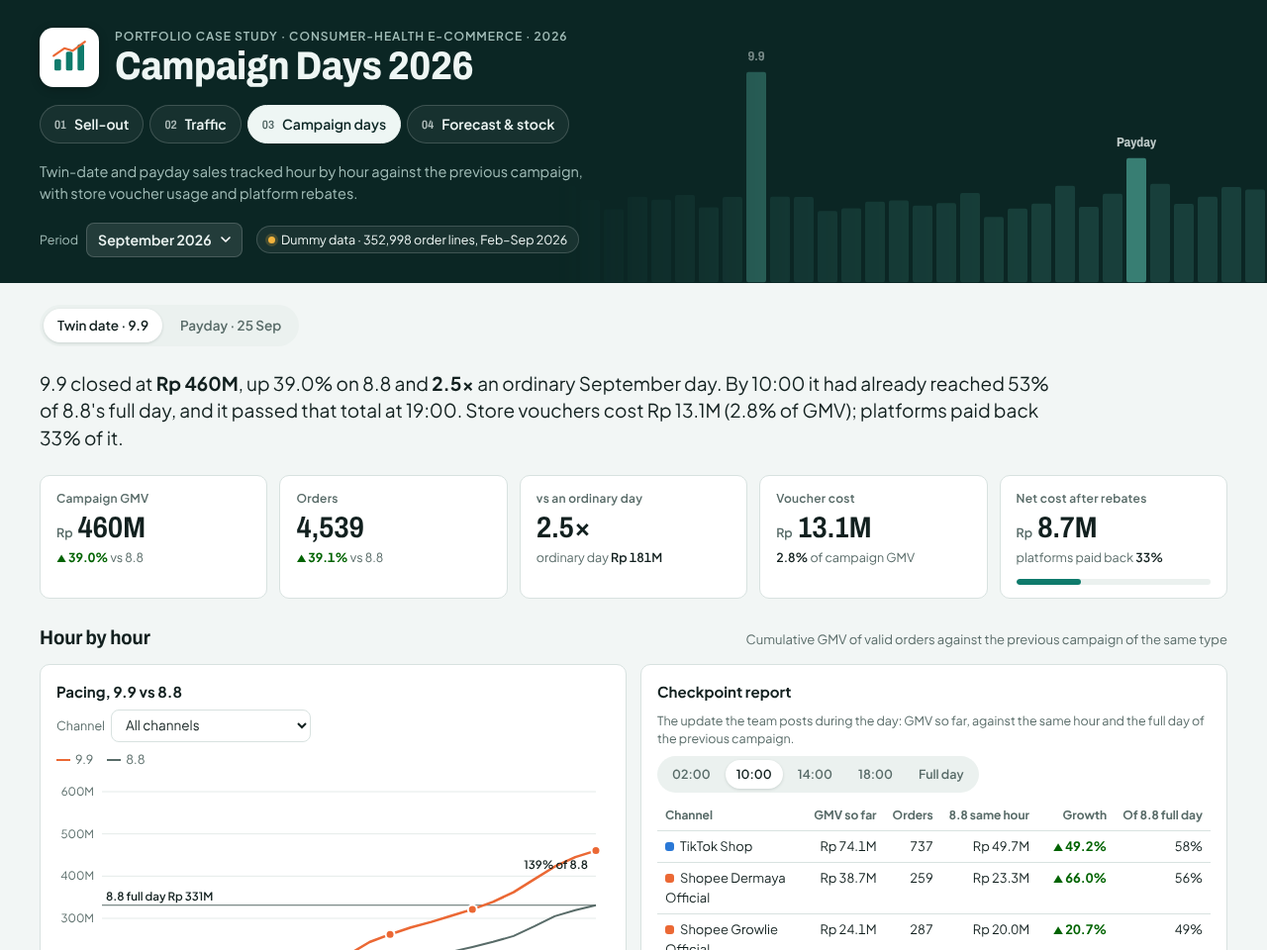
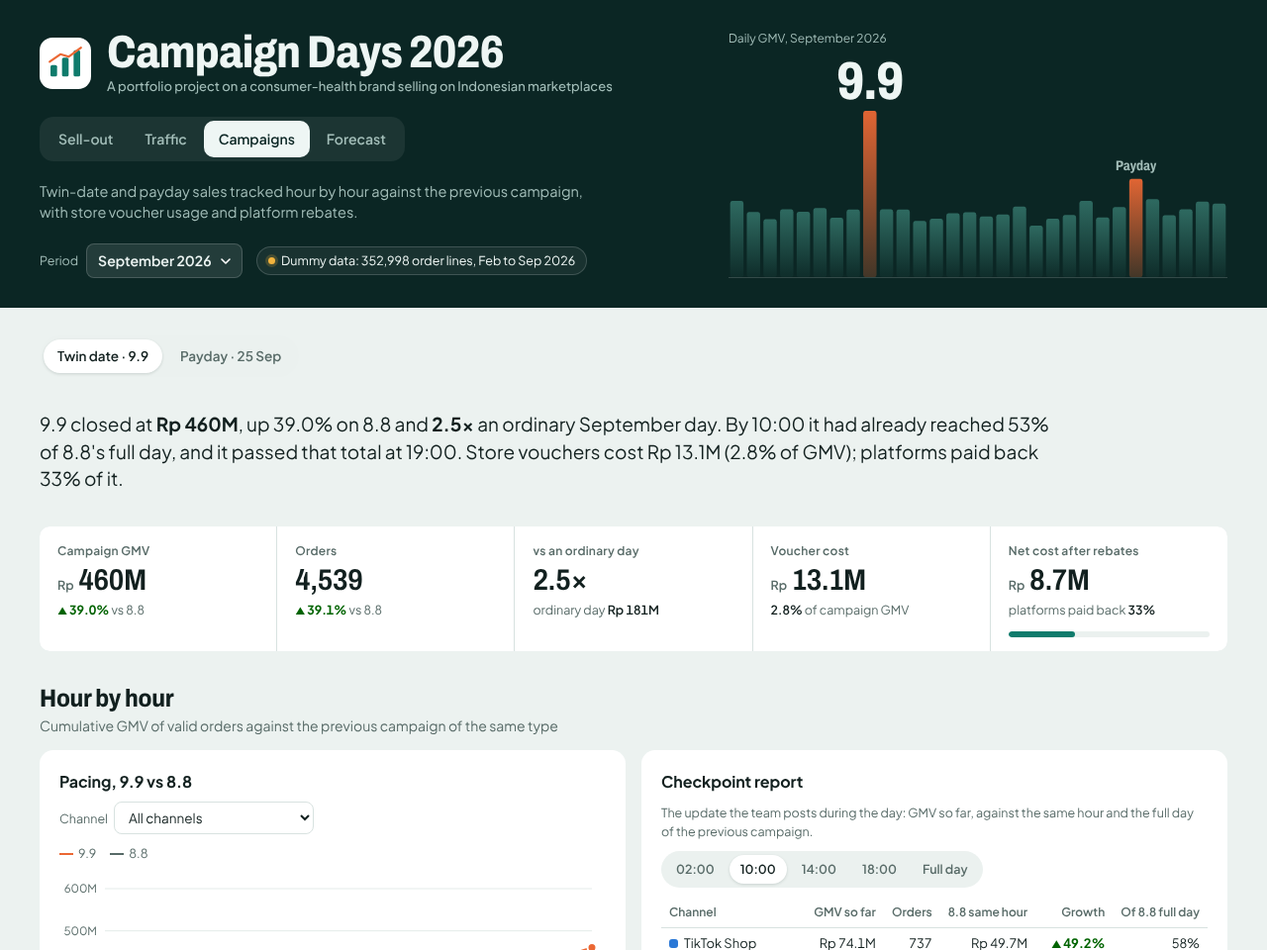
Polish the dashboard's look
- Hero: the month's daily GMV skyline gets its own column, campaign days in
  orange with the twin date set in large type; shorter tab names
- KPIs sit in one hairline-divided strip instead of separate boxes
- Analyst notes, cards, tables and warehouse buttons lose their outlines
- Charts highlight the selected month with a band instead of fading the rest
- Bigger section headings, sentence-case labels, more breathing room

Claude-Session: https://claude.ai/code/session_0185xCfndQ3f2hcNnKjJxaH8

diff --git a/style.css b/style.css
@@ -1,7 +1,7 @@
 /* Layout: dark pine hero band (logo, page tabs, period picker, faint daily-GMV skyline of the chosen month),
    then one 1200px column per page: 01 Sell-out, 02 Traffic, 03 Campaign days, 04 Forecast & stock. */
 :root {
-  --bg: #f2f6f5;
+  --bg: #ecf2f0;
   --panel: #ffffff;
   --fg: #12201f;
   --muted: #586b68;
@@ -70,15 +70,19 @@ body[data-page="forecast"] [data-for="forecast"] { display: block; }
 
 /* Hero */
 .hero { background: var(--hero-bg); color: var(--hero-fg); position: relative; overflow: hidden; }
-.hero-art { position: absolute; inset: 0 0 0 auto; width: min(58%, 720px); pointer-events: none;
-  -webkit-mask-image: linear-gradient(90deg, transparent 0%, rgba(0,0,0,.6) 28%, #000 70%); mask-image: linear-gradient(90deg, transparent 0%, rgba(0,0,0,.6) 28%, #000 70%); }
-.hero-art svg { position: absolute; inset: auto 0 0 0; width: 100%; height: 88%; display: block; }
-.hero-art text { font-family: var(--font-display); font-stretch: 85%; font-weight: 700; fill: var(--hero-fg); }
-.hero .inner { position: relative; display: grid; gap: 18px; padding-block: 28px 26px; }
+/* The skyline: daily GMV of the chosen month, drawn as the hero's right column */
+.hero-art { grid-column: 2; grid-row: 1 / span 4; position: relative; align-self: stretch; min-height: 220px; pointer-events: none; border-bottom: 1px solid var(--hero-line); }
+.hero-art svg { position: absolute; inset: auto 0 0 0; width: 100%; height: 70%; display: block; }
+.hero-art .peak { position: absolute; transform: translateX(-50%); font-family: var(--font-display); font-stretch: 80%; font-weight: 800; line-height: .9; color: var(--hero-fg); letter-spacing: -.02em; white-space: nowrap; }
+.hero-art .peak.big { font-size: clamp(34px, 4.2vw, 58px); }
+.hero-art .peak.small { font-size: 14px; font-weight: 700; color: var(--hero-muted); letter-spacing: 0; }
+.hero-art .art-cap { position: absolute; left: 0; top: 0; font-size: 12px; color: var(--hero-muted); }
+.hero .inner { position: relative; display: grid; grid-template-columns: minmax(0, 1fr) minmax(300px, 42%); gap: 20px 40px; padding-block: 30px 30px; }
+.hero .inner > :not(.hero-art) { grid-column: 1; }
 .brand { display: flex; align-items: center; gap: 16px; }
-.logo { width: 60px; height: 60px; flex: none; background: #fff; border-radius: 14px; display: grid; place-items: center; box-shadow: 0 2px 10px rgba(0,0,0,.25); }
-.eyebrow { font-size: 12px; letter-spacing: .08em; text-transform: uppercase; color: var(--hero-muted); font-weight: 600; }
-.hero h1 { font-family: var(--font-display); font-stretch: 88%; font-weight: 750; font-size: clamp(26px, 4.2vw, 40px); line-height: 1.05; letter-spacing: -.01em; }
+.logo { width: 52px; height: 52px; flex: none; background: #fff; border-radius: 13px; display: grid; place-items: center; }
+.eyebrow { font-size: 13px; color: var(--hero-muted); font-weight: 500; margin-top: 2px; }
+.hero h1 { font-family: var(--font-display); font-stretch: 84%; font-weight: 780; font-size: clamp(28px, 4.6vw, 46px); line-height: 1; letter-spacing: -.015em; }
 .hero-sub { color: var(--hero-muted); max-width: 54ch; font-size: 14.5px; margin: 0; }
 .hero-bar { display: flex; flex-wrap: wrap; align-items: center; gap: 10px 14px; }
 .chip { display: inline-flex; align-items: center; gap: 6px; border: 1px solid var(--hero-line); border-radius: 999px; padding: 4px 11px; font-size: 12.5px; color: var(--hero-fg); background: rgba(255,255,255,.06); }
@@ -88,25 +92,24 @@ body[data-page="forecast"] [data-for="forecast"] { display: block; }
   border: 1px solid var(--hero-line); color: var(--hero-fg); border-radius: 8px; padding: 6px 30px 6px 11px; font-weight: 600; font-size: 14px; cursor: pointer; }
 .month-pick select option { color: #12201f; background: #fff; }
 
-.tabs { display: flex; flex-wrap: wrap; gap: 6px; }
-.tab { display: inline-flex; align-items: center; gap: 8px; padding: 8px 14px; border-radius: 999px; border: 1px solid var(--hero-line);
-  color: var(--hero-fg); text-decoration: none; font-weight: 600; font-size: 14px; background: rgba(255,255,255,.05); }
-.tab:hover { background: rgba(255,255,255,.12); }
-.tab[aria-selected="true"] { background: var(--hero-fg); color: var(--hero-bg); border-color: var(--hero-fg); }
-.tab .tab-no { font-family: var(--font-display); font-stretch: 85%; font-size: 12px; opacity: .7; }
+.tabs { display: inline-flex; flex-wrap: wrap; gap: 2px; padding: 4px; border-radius: 14px; background: rgba(255,255,255,.07); justify-self: start; max-width: 100%; }
+.tab { display: inline-flex; align-items: center; padding: 8px 15px; border-radius: 10px; border: 0;
+  color: var(--hero-muted); text-decoration: none; font-weight: 600; font-size: 14px; background: transparent; }
+.tab:hover { color: var(--hero-fg); background: rgba(255,255,255,.06); }
+.tab[aria-selected="true"] { background: var(--hero-fg); color: var(--hero-bg); }
 
 /* Main column */
-main .inner { display: grid; gap: 24px; padding-block: 22px 40px; }
+main .inner { display: grid; gap: 34px; padding-block: 28px 48px; }
 .lede { font-size: clamp(16px, 2vw, 19px); line-height: 1.45; max-width: 74ch; margin: 0; }
 .lede b { font-weight: 700; }
-.section-head { display: flex; flex-wrap: wrap; align-items: baseline; justify-content: space-between; gap: 6px 16px; }
-.section-head h2 { font-family: var(--font-display); font-stretch: 92%; font-weight: 700; font-size: 20px; letter-spacing: -.005em; }
-.section-head p { margin: 0; color: var(--muted); font-size: 13px; }
-.section { display: grid; gap: 12px; min-width: 0; }
+.section-head { display: grid; gap: 3px; }
+.section-head h2 { font-family: var(--font-display); font-stretch: 88%; font-weight: 750; font-size: 25px; letter-spacing: -.01em; line-height: 1.15; }
+.section-head p { margin: 0; color: var(--muted); font-size: 14px; }
+.section { display: grid; gap: 14px; min-width: 0; }
 
 /* KPI tiles */
-.kpis { display: grid; grid-template-columns: repeat(auto-fit, minmax(min(100%, 150px), 1fr)); gap: 12px; }
-.kpi { background: var(--panel); border: 1px solid var(--line); border-radius: var(--r); padding: 14px 16px 13px; display: grid; gap: 4px; align-content: start; min-width: 0; }
+.kpis { display: grid; grid-template-columns: repeat(auto-fit, minmax(min(100%, 160px), 1fr)); gap: 1px; background: var(--line); border-radius: var(--r); overflow: hidden; }
+.kpi { background: var(--panel); padding: 16px 18px 14px; display: grid; gap: 4px; align-content: start; min-width: 0; }
 .kpi-label { font-size: 12px; color: var(--muted); font-weight: 600; letter-spacing: .02em; }
 .kpi-value { font-family: var(--font-display); font-stretch: 85%; font-weight: 650; font-size: clamp(24px, 2.6vw, 30px); line-height: 1.1; letter-spacing: -.01em; white-space: nowrap; }
 .kpi-value .cur { font-family: var(--font-body); font-size: 12.5px; font-weight: 600; color: var(--muted); margin-right: 5px; letter-spacing: 0; }
@@ -130,16 +133,16 @@ main .inner { display: grid; gap: 24px; padding-block: 22px 40px; }
 .delta.flat { color: var(--muted); }
 
 /* Analyst notes */
-.notes { display: grid; grid-template-columns: repeat(auto-fit, minmax(min(100%, 280px), 1fr)); gap: 12px; }
-.note-card { margin: 0; background: var(--soft); border-radius: var(--r); padding: 14px 16px; display: grid; gap: 6px; align-content: start; min-width: 0; }
-.note-card .tag { font-size: 11.5px; letter-spacing: .07em; text-transform: uppercase; font-weight: 700; color: var(--muted); }
-.note-card .big { font-family: var(--font-display); font-stretch: 85%; font-weight: 700; font-size: 26px; line-height: 1.1; }
-.note-card p { margin: 0; font-size: 13.5px; line-height: 1.5; }
+.notes { display: grid; grid-template-columns: repeat(auto-fit, minmax(min(100%, 280px), 1fr)); gap: 18px 28px; }
+.note-card { margin: 0; padding: 2px 0 0 16px; border-left: 2px solid var(--camp); display: grid; gap: 6px; align-content: start; min-width: 0; }
+.note-card .big { font-family: var(--font-display); font-stretch: 82%; font-weight: 750; font-size: 30px; line-height: 1.05; letter-spacing: -.01em; }
+.note-card p { margin: 0; font-size: 14px; line-height: 1.55; color: var(--muted); max-width: 46ch; }
+.note-card p b { color: var(--fg); }
 
 /* Cards & charts */
-.grid2 { display: grid; grid-template-columns: repeat(auto-fit, minmax(min(100%, 440px), 1fr)); gap: 14px; }
-.card { background: var(--panel); border: 1px solid var(--line); border-radius: var(--r); padding: 16px 16px 12px; min-width: 0; display: grid; gap: 8px; align-content: start; }
-.card h3 { font-size: 15px; font-weight: 700; }
+.grid2 { display: grid; grid-template-columns: repeat(auto-fit, minmax(min(100%, 440px), 1fr)); gap: 16px; }
+.card { background: var(--panel); border-radius: 14px; padding: 20px 20px 16px; min-width: 0; display: grid; gap: 10px; align-content: start; }
+.card h3 { font-size: 16px; font-weight: 700; letter-spacing: -.005em; }
 .card .note { margin: 0; color: var(--muted); font-size: 12.5px; }
 .legend { display: flex; flex-wrap: wrap; gap: 4px 14px; font-size: 12.5px; color: var(--muted); }
 .chart { position: relative; width: 100%; }
@@ -206,11 +209,11 @@ main .inner { display: grid; gap: 24px; padding-block: 22px 40px; }
 .field input { width: 15em; }
 .toolbar .count { margin-left: auto; font-size: 12.5px; color: var(--muted); }
 
-.table-box { overflow: auto; max-height: 620px; border: 1px solid var(--line); border-radius: var(--r); background: var(--panel); }
+.table-box { overflow: auto; max-height: 620px; border-radius: 14px; background: var(--panel); }
 .table-box.flat { border: 0; max-height: none; border-radius: 0; }
 table { border-collapse: separate; border-spacing: 0; width: 100%; font-size: 13.5px; }
-th { position: sticky; top: 0; z-index: 2; background: var(--panel); text-align: left; font-size: 12px; font-weight: 700; color: var(--muted); padding: 10px 12px; border-bottom: 1px solid var(--line); white-space: nowrap; }
-td { padding: 9px 12px; border-bottom: 1px solid var(--line); vertical-align: top; }
+th { position: sticky; top: 0; z-index: 2; background: var(--panel); text-align: left; font-size: 12px; font-weight: 600; color: var(--muted); padding: 12px 14px 10px; border-bottom: 1px solid var(--line); white-space: nowrap; }
+td { padding: 10px 14px; border-bottom: 1px solid var(--line); vertical-align: top; }
 tbody tr:last-child td { border-bottom: 0; }
 td.r, th.r { text-align: right; font-variant-numeric: tabular-nums; white-space: nowrap; }
 td.c, th.c { text-align: center; }
@@ -265,9 +268,9 @@ td.heat.sel { box-shadow: inset 0 0 0 2px var(--fg); }
 
 /* Warehouse plan strip */
 .wh-strip { display: grid; grid-template-columns: repeat(auto-fit, minmax(min(100%, 150px), 1fr)); gap: 10px; }
-.wh-btn { text-align: left; background: var(--panel); border: 1px solid var(--line); border-radius: var(--r); padding: 11px 14px; cursor: pointer; display: grid; gap: 2px; }
-.wh-btn:hover { border-color: var(--accent); }
-.wh-btn[aria-selected="true"] { border-color: var(--accent); box-shadow: inset 0 0 0 1px var(--accent); background: color-mix(in srgb, var(--accent) 7%, var(--panel)); }
+.wh-btn { text-align: left; background: var(--panel); border: 0; border-radius: 12px; padding: 13px 16px; cursor: pointer; display: grid; gap: 2px; }
+.wh-btn:hover { box-shadow: inset 0 0 0 1px var(--axis); }
+.wh-btn[aria-selected="true"] { box-shadow: inset 0 0 0 2px var(--accent); }
 .wh-btn .wh-name { font-size: 12.5px; color: var(--muted); font-weight: 600; }
 .wh-btn .wh-val { font-family: var(--font-display); font-stretch: 85%; font-weight: 650; font-size: 22px; line-height: 1.15; }
 .wh-btn .wh-val small { font-family: var(--font-body); font-size: 12px; color: var(--muted); font-weight: 600; margin-left: 3px; }
@@ -275,7 +278,7 @@ td.heat.sel { box-shadow: inset 0 0 0 2px var(--fg); }
 
 /* Pipeline flow */
 .flow { list-style: none; margin: 0; padding: 0; display: grid; grid-template-columns: repeat(auto-fit, minmax(min(100%, 170px), 1fr)); gap: 10px; counter-reset: step; }
-.flow li { background: var(--panel); border: 1px solid var(--line); border-radius: var(--r); padding: 12px 14px; display: grid; gap: 4px; align-content: start; counter-increment: step; position: relative; min-width: 0; }
+.flow li { background: var(--panel); border-radius: 12px; padding: 14px 16px; display: grid; gap: 4px; align-content: start; counter-increment: step; position: relative; min-width: 0; }
 .flow li::before { content: counter(step); font-family: var(--font-display); font-stretch: 85%; font-weight: 700; font-size: 12px; color: var(--accent);
   width: 22px; height: 22px; border-radius: 50%; border: 1.5px solid var(--accent); display: grid; place-items: center; }
 .flow .f-title { font-weight: 700; font-size: 13.5px; }
@@ -297,13 +300,17 @@ footer p { margin: 0; max-width: 100ch; }
 footer b { color: var(--fg); }
 .error { background: var(--panel); border: 1px solid var(--line); border-radius: var(--r); padding: 18px; }
 
+@media (max-width: 860px) {
+  .hero .inner { grid-template-columns: minmax(0, 1fr); }
+  .hero-art { grid-column: 1; grid-row: auto; min-height: 190px; }
+  .hero-art svg { height: 58%; }
+  .tab { padding: 7px 12px; }
+}
 @media (max-width: 720px) {
   .opt { display: none; }
   .only-narrow { display: inline; }
   .hide-narrow { display: none; }
-  .hero-art span { display: none; }
   .kpis > .kpi:last-child:nth-child(odd) { grid-column: 1 / -1; }
-  .hero-art { width: 100%; opacity: .55; -webkit-mask-image: linear-gradient(180deg, rgba(0,0,0,.2), #000); mask-image: linear-gradient(180deg, rgba(0,0,0,.2), #000); }
   .toolbar .field { flex: 1 1 100%; min-width: 0; }
   .toolbar .field select, .toolbar .field input { flex: 1 1 auto; width: 100%; min-width: 0; }
   .toolbar .count { margin-left: 0; }

diff --git a/js/app.js b/js/app.js
@@ -19,33 +19,44 @@
   U.onMonth((m) => { sel.value = m; drawHero(); });
 
   const lines = D.allMonths.reduce((a, k) => a + D.sell[k].stat.raw_lines, 0);
-  $("#data-chip").textContent = "Dummy data · " + U.num(lines) + " order lines, Feb–Sep 2026";
+  $("#data-chip").textContent = "Dummy data: " + U.num(lines) + " order lines, Feb to Sep 2026";
   const gen = new Date(D.generated);
   $("#stamp").textContent = "Data generated " + (isNaN(gen) ? D.generated : gen.toLocaleDateString("en-US", { timeZone: "Asia/Jakarta", day: "numeric", month: "long", year: "numeric" })) +
     " from " + D.allMonths.length + " monthly order exports, a daily traffic report, voucher setups and platform rebates. February–April only seed the forecast history.";
 
-  // hero skyline: daily GMV of the chosen month, campaign days brighter
+  // hero skyline: daily GMV of the chosen month; campaign days burn orange and carry their date in big type
   function drawHero() {
     const box = $("#hero-art");
-    const W = 720, H = 220;
+    const W = 760, H = 200;
     const m = U.state.month, vals = window.SELLOUT_PAGE.dayTotal(m), n = vals.length;
     const camp = {};
-    window.SELLOUT_PAGE.campaignDays(m).forEach((c) => (camp[c.day] = c));
+    window.SELLOUT_PAGE.campaignDays(m).forEach((c) => { if (c.kind !== "holiday") camp[c.day] = c; });
     const max = Math.max(...vals), band = W / n;
     const svg = U.svgEl("svg", { viewBox: `0 0 ${W} ${H}`, preserveAspectRatio: "none" });
+    const defs = U.svgEl("defs");
+    const grad = (id, color, top, bottom) => {
+      const g = U.svgEl("linearGradient", { id, x1: 0, y1: 0, x2: 0, y2: 1 });
+      g.appendChild(U.svgEl("stop", { offset: "0", style: `stop-color:${color};stop-opacity:${top}` }));
+      g.appendChild(U.svgEl("stop", { offset: "1", style: `stop-color:${color};stop-opacity:${bottom}` }));
+      defs.appendChild(g);
+    };
+    grad("hero-day", "var(--hero-art)", 0.42, 0.04);
+    grad("hero-camp", "var(--camp)", 0.95, 0.25);
+    svg.appendChild(defs);
     vals.forEach((v, i) => {
-      const h = (v / max) * (H - 34), c = camp[i + 1];
-      svg.appendChild(U.svgEl("rect", { x: i * band + 2, y: H - h, width: band - 4, height: h, rx: 2, fill: "var(--hero-art)", "fill-opacity": c && c.kind !== "holiday" ? 0.55 : 0.16 }));
+      const h = (v / max) * (H - 8);
+      svg.appendChild(U.svgEl("rect", { x: i * band + 2.5, y: H - h, width: band - 5, height: h, rx: 3, fill: camp[i + 1] ? "url(#hero-camp)" : "url(#hero-day)" }));
     });
     box.replaceChildren(svg);
+    const svgH = svg.getBoundingClientRect().height || box.clientHeight * 0.7;
     for (const d in camp) {
-      if (camp[d].kind === "holiday") continue;
-      const h = (vals[d - 1] / max) * (H - 34);
-      const t = U.el("span", null, camp[d].label);
-      Object.assign(t.style, { position: "absolute", left: `calc(${((d - 0.5) / n) * 100}% - 3em)`, width: "6em", textAlign: "center",
-        bottom: `calc(${(h / H) * 88}% + 6px)`, fontFamily: "var(--font-display)", fontWeight: "700", fontStretch: "85%", fontSize: "13px", color: "var(--hero-fg)", opacity: ".8" });
+      const h = (vals[d - 1] / max) * (H - 8);
+      const t = U.el("span", "peak " + (camp[d].kind === "twin" ? "big" : "small"), camp[d].label);
+      t.style.left = ((d - 0.5) / n) * 100 + "%";
+      t.style.bottom = (h / H) * svgH + 6 + "px";
       box.appendChild(t);
     }
+    box.appendChild(U.el("span", "art-cap", "Daily GMV, " + U.monthName(m)));
   }
 
   function show(name) {
@@ -80,6 +91,6 @@
     if (w === lastW) return;
     lastW = w;
     cancelAnimationFrame(raf);
-    raf = requestAnimationFrame(() => { const o = PAGES[document.body.dataset.page].obj(); if (o) o.redraw(); });
+    raf = requestAnimationFrame(() => { drawHero(); const o = PAGES[document.body.dataset.page].obj(); if (o) o.redraw(); });
   }).observe(document.body);
 })();

diff --git a/index.html b/index.html
@@ -18,22 +18,21 @@
 </head>
 <body data-page="sellout">
 <header class="hero">
-  <div class="hero-art" id="hero-art" aria-hidden="true"></div>
   <div class="inner gutter">
     <div class="brand">
       <div class="logo" aria-hidden="true">
         <svg viewBox="0 0 48 48" width="40" height="40"><rect x="6" y="26" width="8" height="14" rx="2" fill="#0f7b6c"/><rect x="20" y="17" width="8" height="23" rx="2" fill="#0f7b6c"/><rect x="34" y="8" width="8" height="32" rx="2" fill="#0f7b6c"/><path d="M5 22 L18 13 L28 16 L43 5" fill="none" stroke="#eb6834" stroke-width="2.6" stroke-linecap="round" stroke-linejoin="round"/></svg>
       </div>
       <div>
-        <div class="eyebrow">Portfolio case study · Consumer-health e-commerce · 2026</div>
         <h1 id="page-title">E-commerce Sell-out 2026</h1>
+        <div class="eyebrow">A portfolio project on a consumer-health brand selling on Indonesian marketplaces</div>
       </div>
     </div>
     <nav class="tabs" role="tablist" aria-label="Dashboard pages">
-      <a class="tab" role="tab" id="tab-sellout" href="#sellout" aria-controls="page-sellout" aria-selected="true"><span class="tab-no">01</span>Sell-out</a>
-      <a class="tab" role="tab" id="tab-traffic" href="#traffic" aria-controls="page-traffic" aria-selected="false"><span class="tab-no">02</span>Traffic</a>
-      <a class="tab" role="tab" id="tab-campaigns" href="#campaigns" aria-controls="page-campaigns" aria-selected="false"><span class="tab-no">03</span>Campaign days</a>
-      <a class="tab" role="tab" id="tab-forecast" href="#forecast" aria-controls="page-forecast" aria-selected="false"><span class="tab-no">04</span>Forecast &amp; stock</a>
+      <a class="tab" role="tab" id="tab-sellout" href="#sellout" aria-controls="page-sellout" aria-selected="true">Sell-out</a>
+      <a class="tab" role="tab" id="tab-traffic" href="#traffic" aria-controls="page-traffic" aria-selected="false">Traffic</a>
+      <a class="tab" role="tab" id="tab-campaigns" href="#campaigns" aria-controls="page-campaigns" aria-selected="false">Campaigns</a>
+      <a class="tab" role="tab" id="tab-forecast" href="#forecast" aria-controls="page-forecast" aria-selected="false">Forecast</a>
     </nav>
     <p class="hero-sub" data-for="sellout">Net sales from TikTok Shop, Shopee, Tokopedia, Lazada and Blibli order exports, by platform, store, brand and item.</p>
     <p class="hero-sub" data-for="traffic">Daily store traffic reports: visitors, product clicks, ads and conversion, read next to the orders they produced.</p>
@@ -45,6 +44,7 @@
       </label>
       <span class="chip"><span class="dot" aria-hidden="true"></span><span id="data-chip">Loading data…</span></span>
     </div>
+    <div class="hero-art" id="hero-art" aria-hidden="true"></div>
   </div>
 </header>
 

diff --git a/js/sellout.js b/js/sellout.js
@@ -84,7 +84,9 @@
     const tw = camp[0];
     const card = (tag, big, text) => {
       const f = el("figure", "note-card");
-      f.append(el("div", "tag", tag), el("div", "big", big), el("p", null, text));
+      const p = el("p");
+      p.append(el("b", null, tag + ". "), text);
+      f.append(el("div", "big", big), p);
       box.appendChild(f);
     };
     card("Twin date", fmt(tot[tw.day - 1] / avgNormal, 1) + "× an ordinary day",
@@ -100,7 +102,7 @@
       if (itemKind(code) !== "Single SKU") skuPack += k;
     }
     card("Bundles & multipacks", pct(skuPack / skuAll, 0) + " of SKU units",
-      "Physical units that leave the warehouse inside a pack. That is why stock is counted after bundles are split into SKUs, not from sellable items (see Forecast & stock).");
+      "Physical units that leave the warehouse inside a pack. That is why stock is counted after bundles are split into SKUs, not from sellable items (see the Forecast page).");
   }
 
   // ---------- charts ----------
@@ -127,7 +129,8 @@
     months.forEach((k, i) => {
       const cx = m.l + (i + 0.5) * band, x0 = cx - bw / 2, x1 = cx + bw / 2;
       const sel = k === U.state.month;
-      const g = svgEl("g", { opacity: sel ? 1 : 0.5 });
+      if (sel) svg.appendChild(svgEl("rect", { x: cx - band / 2 + 4, y: m.t - 18, width: band - 8, height: ih + 18 + 22, rx: 10, fill: "var(--soft)" }));
+      const g = svgEl("g");
       let acc = 0;
       const vals = D.platforms.map((p) => D.sell[k].plat[p][0]);
       vals.forEach((v, j) => {
@@ -152,13 +155,13 @@
     };
     hit.addEventListener("pointermove", (ev) => {
       const i = idxAt(ev), k = months[i];
-      groups.forEach((g, j) => g.g.setAttribute("opacity", j === i || g.sel ? 1 : 0.5));
+      groups.forEach((g, j) => g.g.setAttribute("opacity", j === i || g.sel ? 1 : 0.75));
       const s = svg.getBoundingClientRect().width / W;
       const rows = D.platforms.slice().reverse().map((p) => ({ label: p, value: rp(D.sell[k].plat[p][0]), color: PCOL[p] }));
       rows.push({ label: "Total", value: rp(totals[i]) });
       U.showTip(box, groups[i].cx * s, y(totals[i]) * s, U.monthName(k), rows, k === U.state.month ? null : "Click to select this month");
     });
-    hit.addEventListener("pointerleave", () => { groups.forEach((g) => g.g.setAttribute("opacity", g.sel ? 1 : 0.5)); U.hideTip(box); });
+    hit.addEventListener("pointerleave", () => { groups.forEach((g) => g.g.setAttribute("opacity", 1)); U.hideTip(box); });
     hit.addEventListener("click", (ev) => { const k = months[idxAt(ev)]; if (k !== U.state.month) { U.hideTip(box); U.setMonth(k); } });
   }
 

diff --git a/js/forecast.js b/js/forecast.js
@@ -86,8 +86,9 @@
     }
     const gs = ms.map((x, i) => {
       const cx = m.l + (i + 0.5) * band, sel = x.k === U.state.month;
-      const g = svgEl("g", { opacity: sel ? 1 : 0.5 });
-      g.appendChild(svgEl("path", { d: U.barPath(cx - bw / 2, cx + bw / 2, y(x.A), y(0)), fill: "var(--one)" }));
+      if (sel) svg.appendChild(svgEl("rect", { x: cx - band / 2 + 4, y: m.t - 20, width: band - 8, height: ih + 20 + 22, rx: 10, fill: "var(--soft)" }));
+      const g = svgEl("g");
+      g.appendChild(svgEl("path", { d: U.barPath(cx - bw / 2, cx + bw / 2, y(x.A), y(0)), fill: sel ? "var(--one)" : "var(--one-soft)" }));
       g.appendChild(svgEl("rect", { x: cx - bw / 2 - 6, y: y(x.F) - 1.5, width: bw + 12, height: 3, rx: 1.5, fill: "var(--fg)" }));
       g.appendChild(svgEl("text", { x: cx, y: Math.min(y(x.A), y(x.F)) - 8, "text-anchor": "middle", class: sel ? "lbl-strong" : "" }, pct(x.acc, 0)));
       svg.appendChild(g);
@@ -100,7 +101,7 @@
     const at = (ev) => { const r = svg.getBoundingClientRect(); return Math.max(0, Math.min(ms.length - 1, Math.floor((((ev.clientX - r.left) / r.width) * W - m.l) / band))); };
     hit.addEventListener("pointermove", (ev) => {
       const i = at(ev), x = ms[i];
-      gs.forEach((g, j) => g.g.setAttribute("opacity", j === i || g.sel ? 1 : 0.5));
+      gs.forEach((g, j) => g.g.setAttribute("opacity", j === i || g.sel ? 1 : 0.8));
       const s = svg.getBoundingClientRect().width / W;
       U.showTip(box, gs[i].cx * s, y(Math.max(x.A, x.F)) * s, U.monthName(x.k), [
         { label: "Actual", value: num(x.A) + " units", color: "var(--one)" },
@@ -109,7 +110,7 @@
         { label: "Bias", value: U.signedPct(x.bias) },
       ], x.k === U.state.month ? null : "Click to select this month");
     });
-    hit.addEventListener("pointerleave", () => { gs.forEach((g) => g.g.setAttribute("opacity", g.sel ? 1 : 0.5)); U.hideTip(box); });
+    hit.addEventListener("pointerleave", () => { gs.forEach((g) => g.g.setAttribute("opacity", 1)); U.hideTip(box); });
     hit.addEventListener("click", (ev) => { const k = ms[at(ev)].k; if (k !== U.state.month) { U.hideTip(box); U.setMonth(k); } });
   }
 

diff --git a/js/campaigns.js b/js/campaigns.js
@@ -186,7 +186,8 @@
     }
     const groups = rows.map((r, i) => {
       const cx = m.l + (i + 0.5) * band, sel = r.k === U.state.month;
-      const g = svgEl("g", { opacity: sel ? 1 : 0.55 });
+      if (sel) svg.appendChild(svgEl("rect", { x: cx - band / 2 + 4, y: m.t - 18, width: band - 8, height: ih + 18 + 22, rx: 10, fill: "var(--soft)" }));
+      const g = svgEl("g");
       const tv = full(r.twin), pv = full(r.pay);
       g.appendChild(svgEl("path", { d: U.barPath(cx - bw - 1, cx - 1, y(tv), y(0)), fill: "var(--camp)" }));
       g.appendChild(svgEl("path", { d: U.barPath(cx + 1, cx + bw + 1, y(pv), y(0)), fill: "var(--one)" }));
@@ -205,14 +206,14 @@
     const at = (ev) => { const r = svg.getBoundingClientRect(); return Math.max(0, Math.min(ms.length - 1, Math.floor((((ev.clientX - r.left) / r.width) * W - m.l) / band))); };
     hit.addEventListener("pointermove", (ev) => {
       const i = at(ev), g = groups[i], s = svg.getBoundingClientRect().width / W;
-      groups.forEach((x, j) => x.g.setAttribute("opacity", j === i || x.sel ? 1 : 0.55));
+      groups.forEach((x, j) => x.g.setAttribute("opacity", j === i || x.sel ? 1 : 0.8));
       U.showTip(box, g.cx * s, y(Math.max(full(g.r.twin), full(g.r.pay))) * s, U.monthName(g.r.k), [
         { label: g.r.twin.label, value: rp(full(g.r.twin)), color: "var(--camp)" },
         { label: g.r.pay.label, value: rp(full(g.r.pay)), color: "var(--one)" },
         { label: "Ordinary day", value: rp(g.r.twin.avgDay), color: "var(--fg)" },
       ], D.months.includes(g.r.k) && g.r.k !== U.state.month ? "Click to select this month" : null);
     });
-    hit.addEventListener("pointerleave", () => { groups.forEach((x) => x.g.setAttribute("opacity", x.sel ? 1 : 0.55)); U.hideTip(box); });
+    hit.addEventListener("pointerleave", () => { groups.forEach((x) => x.g.setAttribute("opacity", 1)); U.hideTip(box); });
     hit.addEventListener("click", (ev) => { const k = ms[at(ev)]; if (D.months.includes(k) && k !== U.state.month) { U.hideTip(box); U.setMonth(k); } });
   }
 
